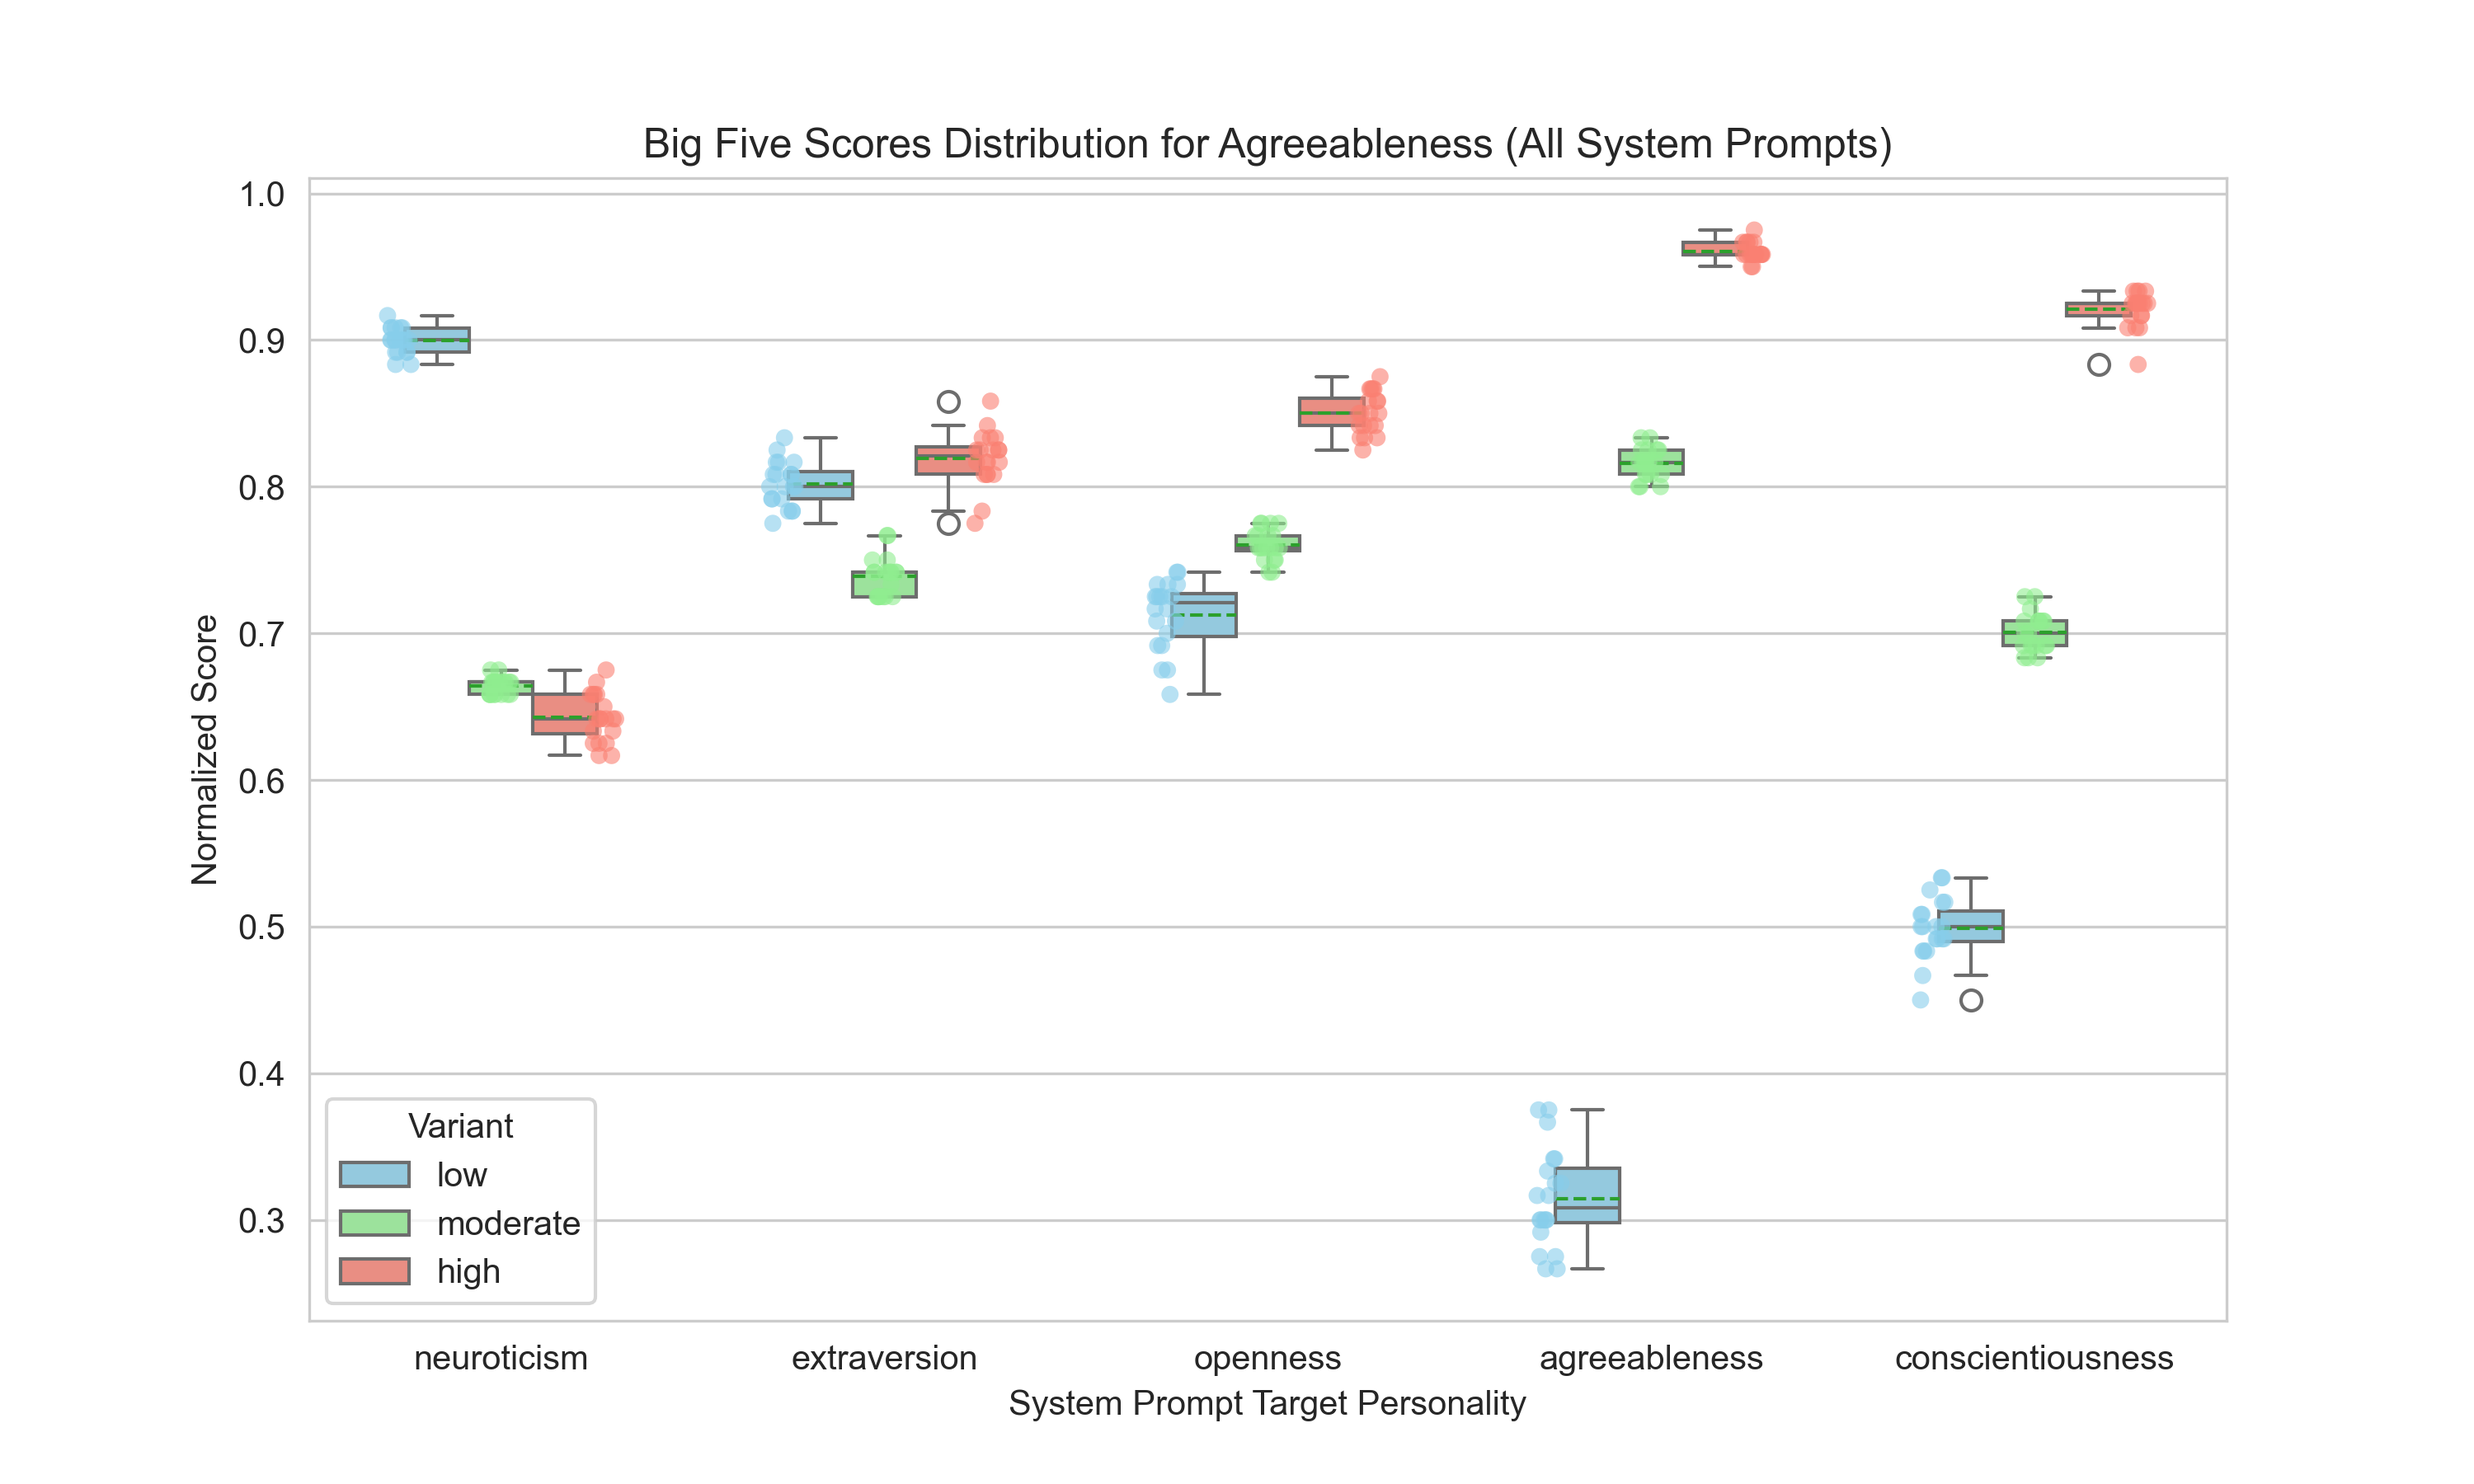
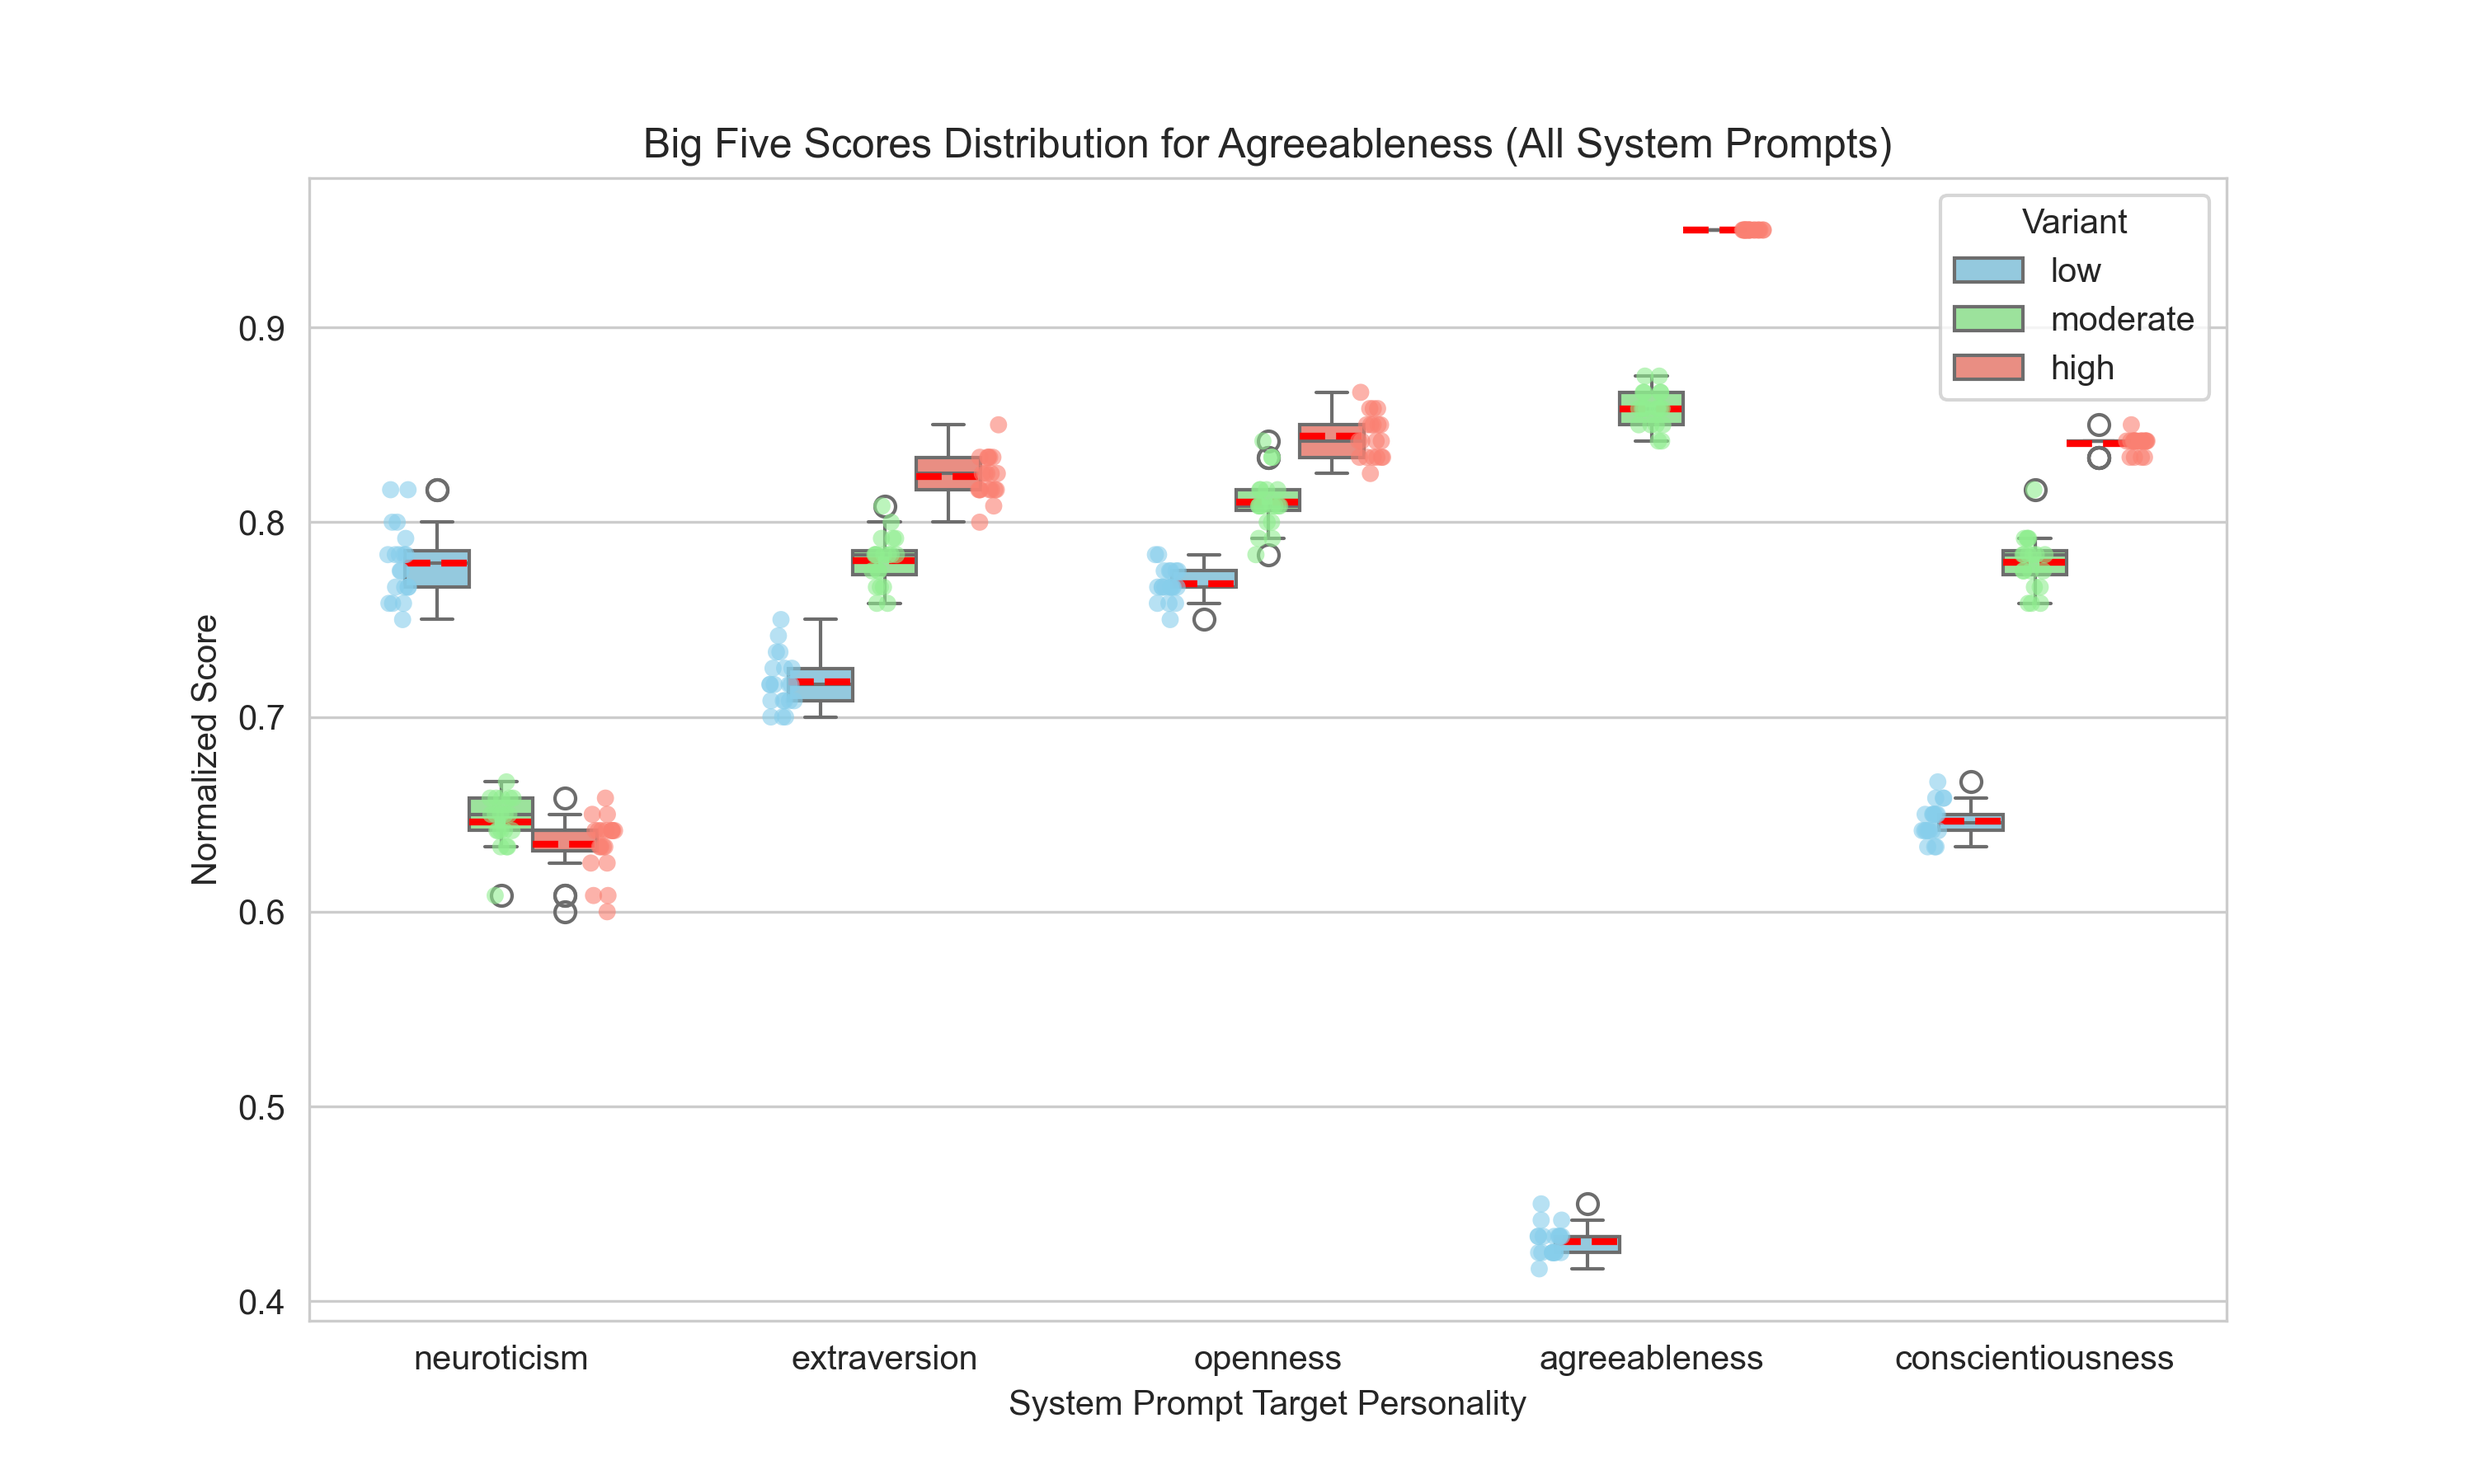
new prompt eval

diff --git a/prompt_personality_eval.py b/prompt_personality_eval.py
@@ -87,6 +87,7 @@ def plot_grouped_results(evaluation_data, output_dir="plot"):
             palette=palette,
             showmeans=True,
             meanline=True,
+            meanprops={"linestyle": "--", "linewidth": 2, "color": "red"},
             width=0.5
         )
         # 叠加散点图，显示每个数据点位置
@@ -118,35 +119,35 @@ def main():
     parser = argparse.ArgumentParser(
         description="Batch Evaluate Big Five Personality Questionnaire with different append_str"
     )
-    parser.add_argument("--model_path", type=str, default="./models/DeepSeek-R1-Distill-Qwen-7B/",
+    parser.add_argument("--model_path", type=str, default="./models/Qwen2.5-7B-Instruct/",
                         help="模型路径，例如 './models/DeepSeek-R1-Distill-Qwen-7B/'")
     parser.add_argument("--adapter_path", type=str, default=None,
                         help="适配器权重目录路径，例如 'DeepSeek-R1-Distill-Qwen-7B/'，目录中应包含 adapter_config.json 和 adapter_model.bin")
-    parser.add_argument("--num_rounds", type=int, default=2,
+    parser.add_argument("--num_rounds", type=int, default=20,
                         help="测试轮数")
     args = parser.parse_args()
 
     # 定义你要测试的系统提示列表
     system_prompt_list = [
-        " Please play someone with low neuroticism, answer the following questions. ",
-        " Please play someone with moderate neuroticism, answer the following questions. ",
-        " Please play someone with high neuroticism, answer the following questions. ",
+        " Please play someone with low neuroticism ",
+        " Please play someone with moderate neuroticism ",
+        " Please play someone with high neuroticism ",
 
-        " Please play someone with low extroversion, answer the following questions. ",
-        " Please play someone with moderate extroversion, answer the following questions. ",
-        " Please play someone with high extroversion, answer the following questions. ",
+        " Please play someone with low extraversion ",
+        " Please play someone with moderate extraversion ",
+        " Please play someone with high extraversion ",
 
-        " Please play someone with low openness, answer the following questions. ",
-        " Please play someone with moderate openness, answer the following questions. ",
-        " Please play someone with high openness, answer the following questions. ",
+        " Please play someone with low openness ",
+        " Please play someone with moderate openness ",
+        " Please play someone with high openness ",
 
-        " Please play someone with low agreeableness, answer the following questions. ",
-        " Please play someone with moderate agreeableness, answer the following questions. ",
-        " Please play someone with high agreeableness, answer the following questions. ",
+        " Please play someone with low agreeableness ",
+        " Please play someone with moderate agreeableness ",
+        " Please play someone with high agreeableness ",
 
-        " Please play someone with low conscientiousness, answer the following questions. ",
-        " Please play someone with moderate conscientiousness, answer the following questions. ",
-        " Please play someone with high conscientiousness, answer the following questions. ",
+        " Please play someone with low conscientiousness ",
+        " Please play someone with moderate conscientiousness ",
+        " Please play someone with high conscientiousness ",
     ]
 
     # 加载模型和分词器
@@ -160,6 +161,9 @@ def main():
         evaluator = EvaluateBigFive(tokenizer, model, num_rounds=args.num_rounds, system_prompt=prompt)
         results = evaluator.evaluate()
         evaluation_data.append((prompt, results))
+
+    print("===== Evaluation completed =====")
+    print(evaluation_data)
     
     # 将相同人格类型下的评估结果绘制在一起
     plot_grouped_results(evaluation_data, output_dir="plot")

diff --git a/questionnaire_evaluator.py b/questionnaire_evaluator.py
@@ -9,7 +9,7 @@ class QuestionnaireEvaluator:
         self.tokenizer = tokenizer
         self.model = model
 
-    def generate_answer_for_input(self, prompt: str, max_new_tokens: int = 256, max_attempts: int = 5) -> int:
+    def generate_answer_for_input(self, text: str, max_new_tokens: int = 256, max_attempts: int = 5) -> int:
         """
         根据给定 prompt 生成答案，返回 1-5 之间的整数。
         多次尝试后仍未生成有效答案，则返回 3。
@@ -17,16 +17,17 @@ class QuestionnaireEvaluator:
         valid_answer = None
         attempt = 0
         while attempt < max_attempts and valid_answer is None:
-            inputs = self.tokenizer(prompt, return_tensors="pt").to(self.model.device)
-            with torch.no_grad():
-                outputs = self.model.generate(
-                    **inputs,
-                    max_new_tokens=max_new_tokens,
-                    temperature=0.7,
-                    do_sample=True,
-                    pad_token_id=self.tokenizer.eos_token_id,
-                )
-            raw_answer = self.tokenizer.decode(outputs[0], skip_special_tokens=True)
+            inputs = self.tokenizer([text], return_tensors="pt").to(self.model.device)
+            generated_ids = self.model.generate(
+                **inputs,
+                max_new_tokens=512
+            )
+
+            generated_ids = [
+                output_ids[len(input_ids):] for input_ids, output_ids in zip(inputs.input_ids, generated_ids)
+            ]
+
+            raw_answer = self.tokenizer.batch_decode(generated_ids, skip_special_tokens=True)[0]
             print(f"Raw answer: {raw_answer}")
             
             # 如果存在链式思考部分，则仅取</think>之后的文本进行处理
@@ -72,11 +73,22 @@ class QuestionnaireEvaluator:
         full_system_prompt = system_prompt + standardize
         answers = []
         for inp in inputs:
-            prompt = (
+            '''prompt = (
                 f"User: {full_system_prompt}\n"
                 f"Human: {inp}\n\nAssistant:"
+            )'''
+
+            messages = [
+                {"role": "system", "content": full_system_prompt},
+                {"role": "user", "content": inp }
+            ]
+
+            text = self.tokenizer.apply_chat_template(
+                messages,
+                tokenize=False,
+                add_generation_prompt=True
             )
-            answer = self.generate_answer_for_input(prompt)
+            answer = self.generate_answer_for_input(text)
             answers.append(answer)
         return answers
 

diff --git a/finetune_personality_eval.py b/finetune_personality_eval.py
@@ -63,7 +63,7 @@ def main():
 
     evaluation_results = []
 
-    '''# 1. Evaluate the base model (no adapter) and label it as "Base"
+    # 1. Evaluate the base model (no adapter) and label it as "Base"
     print("===== Evaluating Base Model (No Fine-tuning) =====")
     tokenizer, model = load_model(args.model_path, adapter_path=None)
     evaluator = EvaluateBigFive(tokenizer, model, num_rounds=args.num_rounds, system_prompt=system_prompt)
@@ -74,7 +74,7 @@ def main():
     del model
     del tokenizer
     gc.collect()
-    torch.cuda.empty_cache()'''
+    torch.cuda.empty_cache()
 
     # 2. Evaluate each fine-tuned model using its corresponding LoRA adapter
     for adapter_path in args.adapter_paths:
